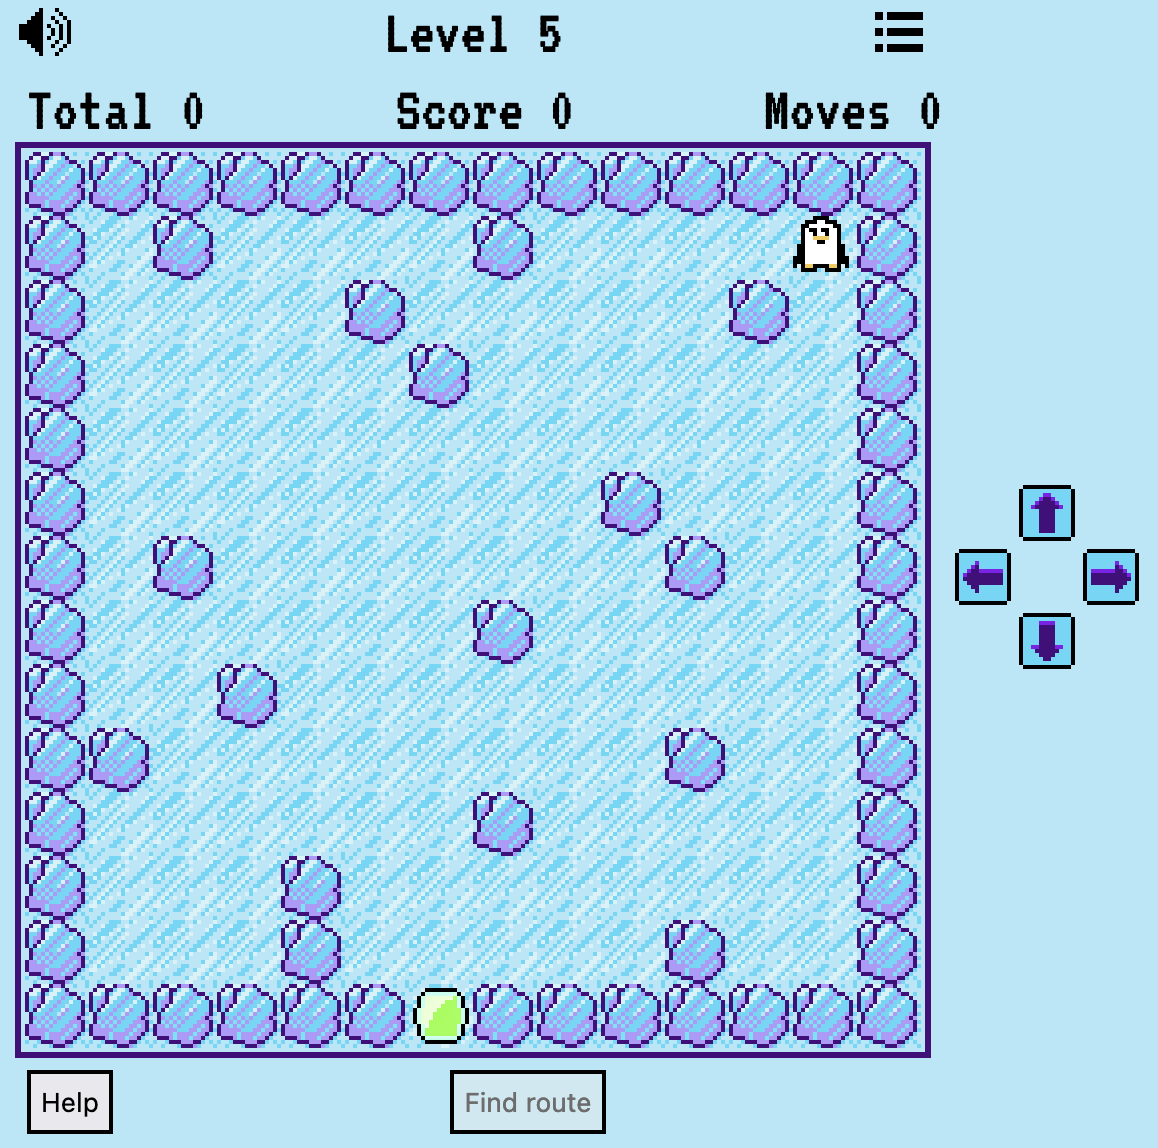
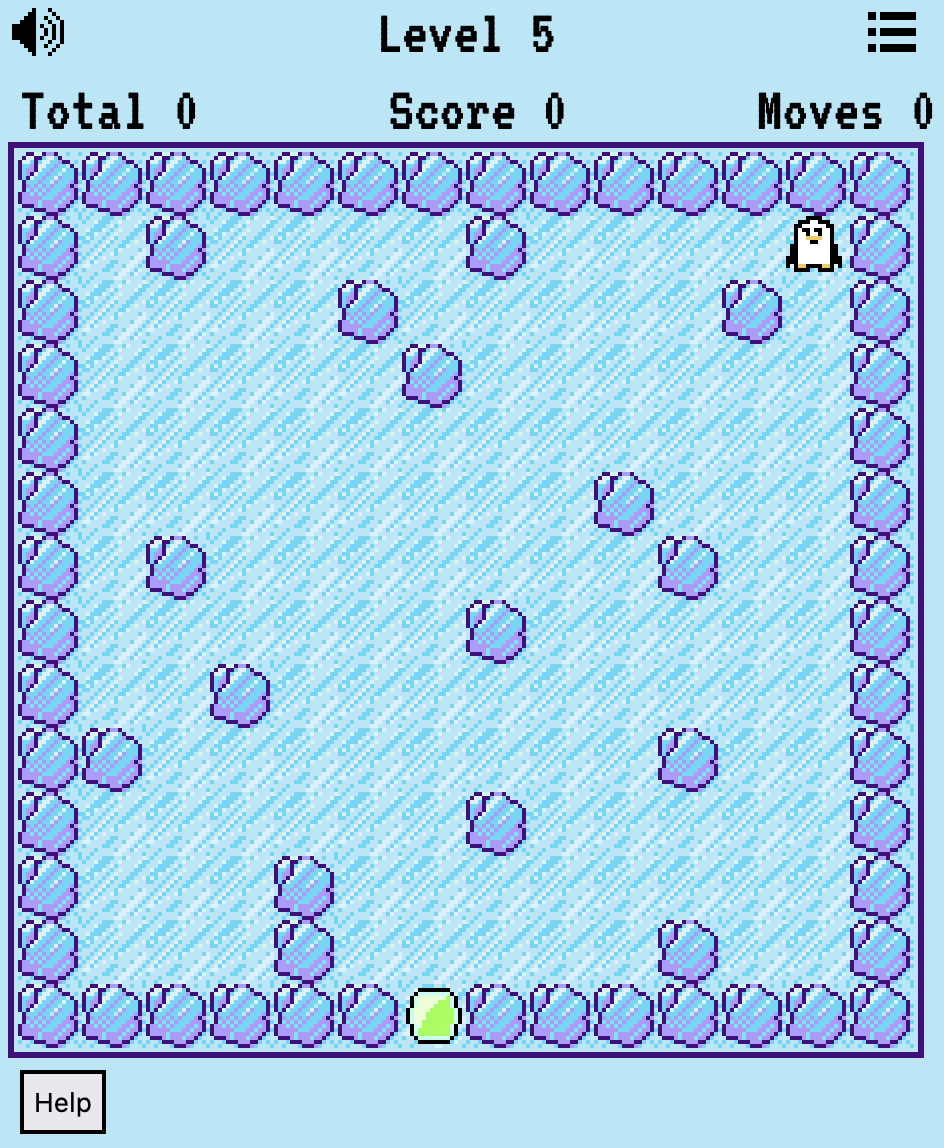
Removed "Find route" button.

diff --git a/src/index.js b/src/index.js
@@ -1327,8 +1327,9 @@
         el.chooseLevel.addEventListener('click', showSettingsScreen);
         el.loudspeaker = document.querySelector('#loudspeaker');
         el.loudspeaker.addEventListener('click', checkAudio);
-        el.findRouteButton = document.querySelector('#find-route');
-        el.findRouteButton.addEventListener('click', findRoute);
+        // el.findRouteButton = document.querySelector('#find-route');
+        // el.findRouteButton.addEventListener('click', findRoute);
+        document.querySelector('#find-route').remove();
         el.helpButton = document.querySelector('#help');
         el.helpButton.addEventListener('click', help);
         // el.bfsButton = document.querySelector('#bfs');
